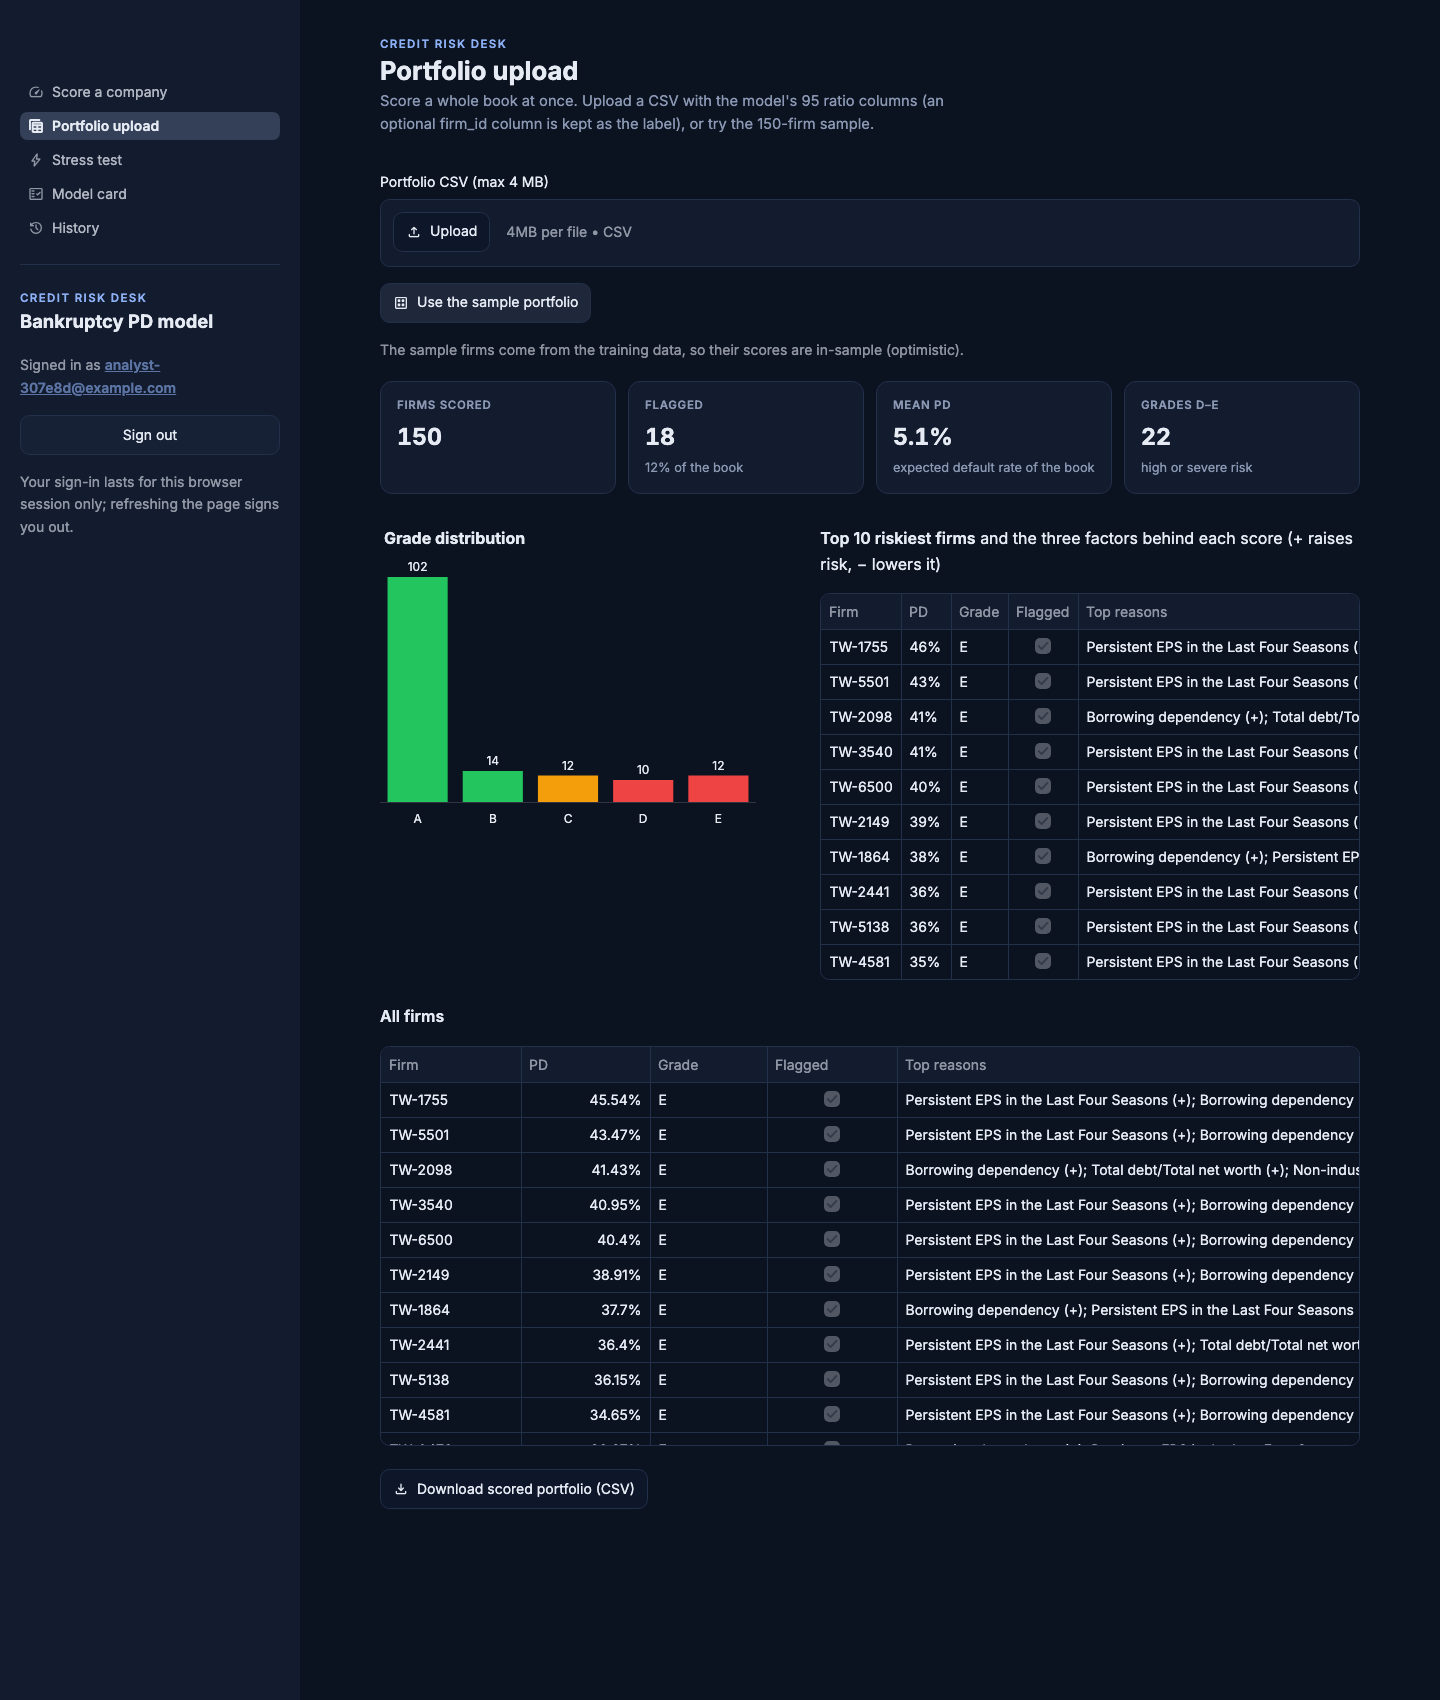
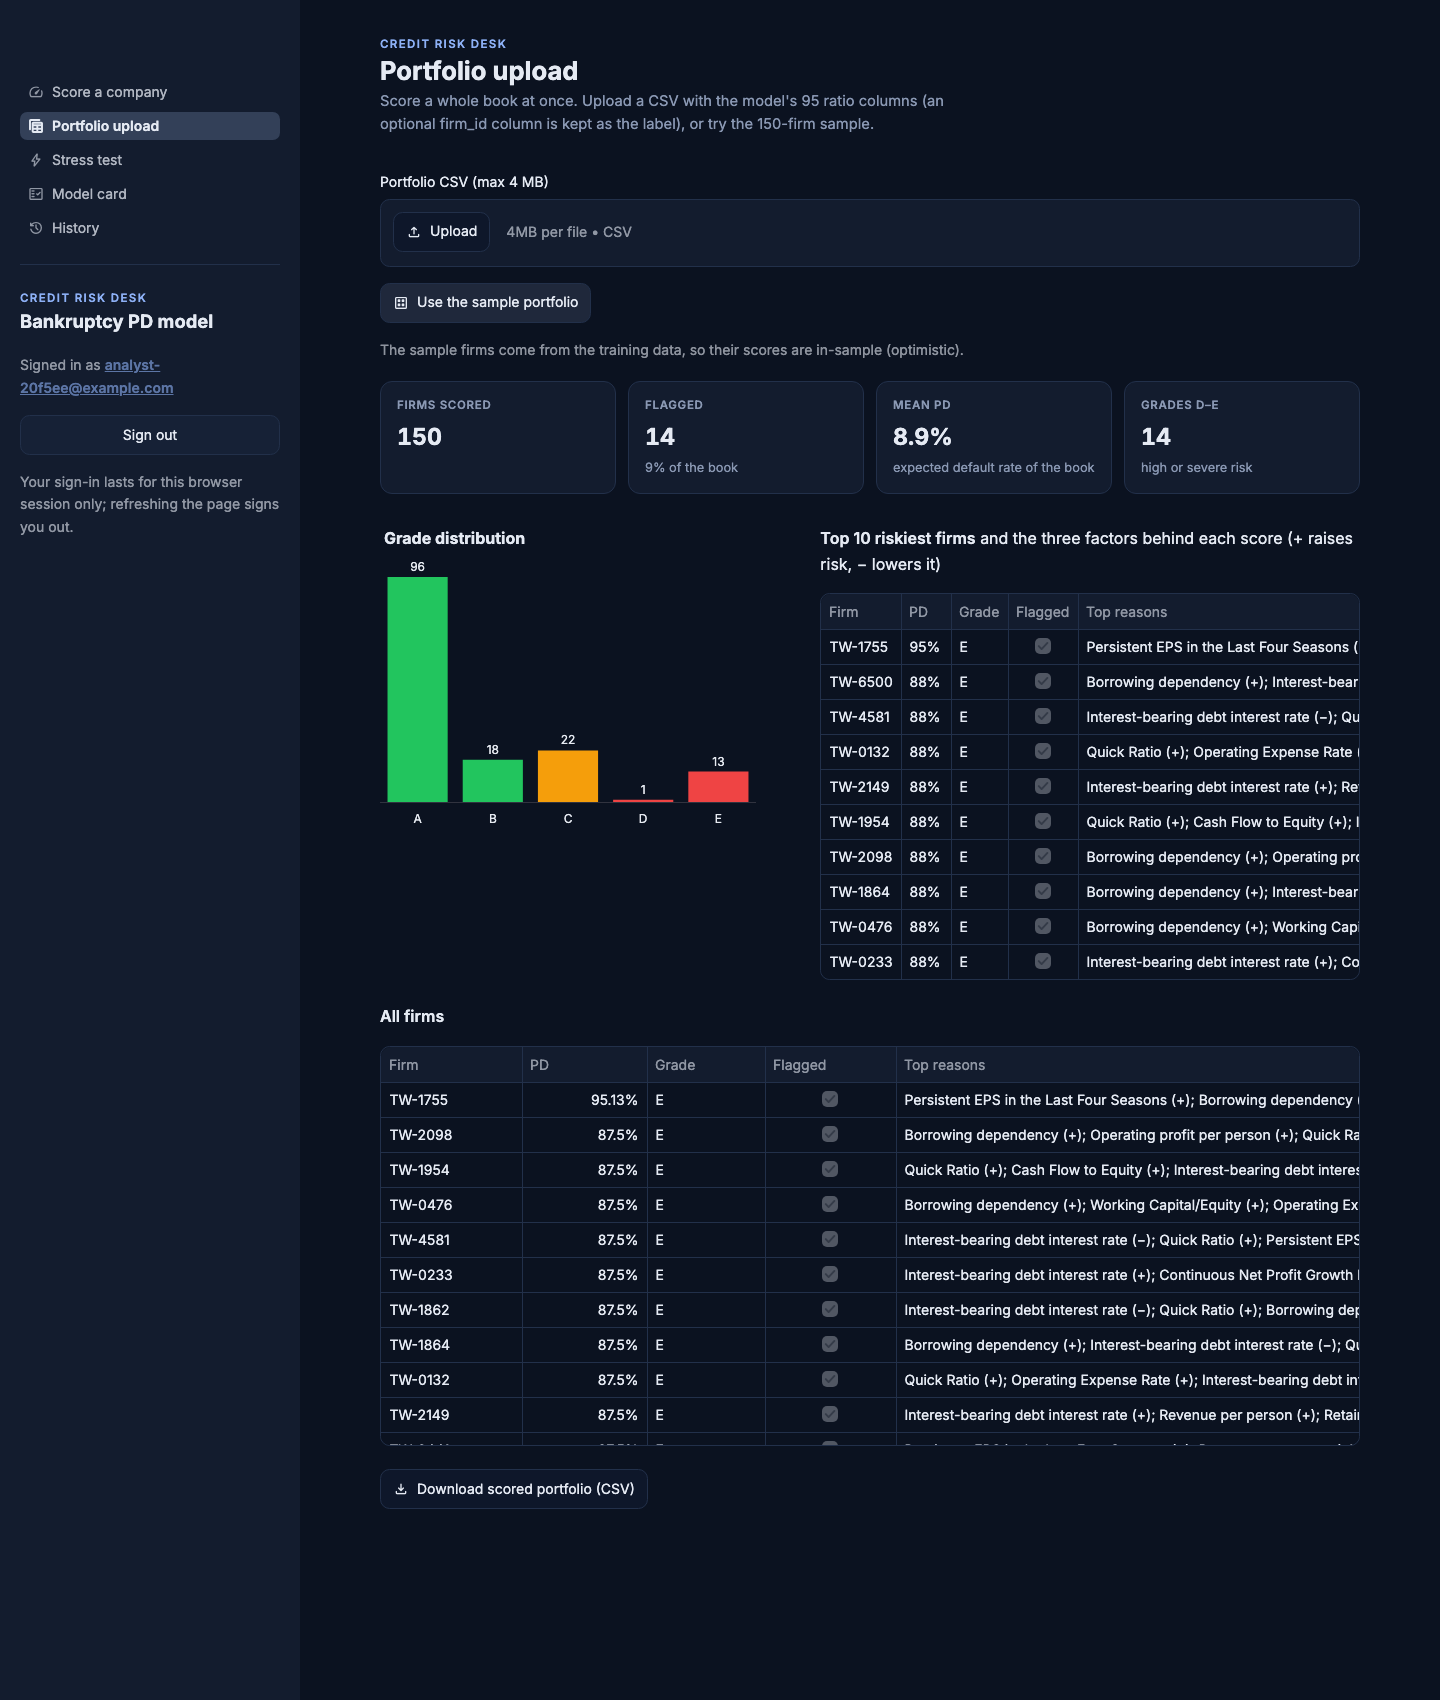
nested-cv: threshold shown to one decimal; Model card cites deployed_model.json; screenshots regenerated with the new model

diff --git a/ui/pages/model_card.py b/ui/pages/model_card.py
@@ -4,11 +4,11 @@ import plotly.graph_objects as go
 import streamlit as st
 
 from ui.components import cards, empty_state, hero, load_json, plot
-from ui.theme import ACCENT, BORDER, GRADE_COLORS, MUTED, RISK_AMBER, TEMPLATE, fmt_pd
+from ui.theme import ACCENT, BORDER, GRADE_COLORS, MUTED, RISK_AMBER, TEMPLATE
 
 hero("Credit risk desk", "Model card",
      "How the model was evaluated, how well its probabilities are calibrated, and where it should not be used. "
-     "Every number on this page is read from reports/metrics.json.")
+     "Every number on this page is read from reports/metrics.json and reports/deployed_model.json.")
 
 r = load_json("reports/metrics.json")
 deployed = load_json("reports/deployed_model.json")
@@ -32,7 +32,7 @@ cards([
     ("ROC-AUC", f"{nm['roc_auc']['mean']:.3f}", f"± {nm['roc_auc']['std']:.3f} · ranking quality"),
     ("PR-AUC", f"{nm['pr_auc']['mean']:.3f}", f"± {nm['pr_auc']['std']:.3f} · base rate {r['data']['base_rate']:.3f}"),
     ("Brier score", f"{nm['brier']['mean']:.4f}", f"± {nm['brier']['std']:.4f} · calibrated PD, lower is better"),
-    ("Deployed threshold", fmt_pd(deployed["threshold"]),
+    ("Deployed threshold", f"{deployed['threshold']:.1%}",
      f"missed default = {deployed['cost_ratio_fn_to_fp']}× false alarm"),
     ("Recall at threshold", f"{nm['recall_at_threshold']['mean']:.0%}",
      f"± {nm['recall_at_threshold']['std']:.0%} · defaults caught"),

diff --git a/ui/pages/score.py b/ui/pages/score.py
@@ -20,7 +20,6 @@ from ui.components import (
     shap_waterfall,
 )
 from ui.inputs import current_firm, load_firm, render_inputs
-from ui.theme import fmt_pd
 
 init_state()
 meta = get_meta()
@@ -71,7 +70,7 @@ with right:
             plot(pd_gauge(result["probability"], meta["grades"], result["threshold"]))
         source = "served from cache" if result.get("cached") else "computed by the model"
         st.caption(f"API responded in {st.session_state.latency:.2f} s · {source} · decision threshold "
-                   f"{fmt_pd(result['threshold'])} (missed default = {meta['cost_ratio_fn_to_fp'] if meta else '?'}× "
+                   f"{result['threshold']:.1%} (missed default = {meta['cost_ratio_fn_to_fp'] if meta else '?'}× "
                    f"a false alarm) · model {escape(result['model_version'])}")
         if st.session_state.get("result_firm") != current_firm():
             st.warning("Inputs changed since this score. Press Score company to update.", icon=":material/sync:")
